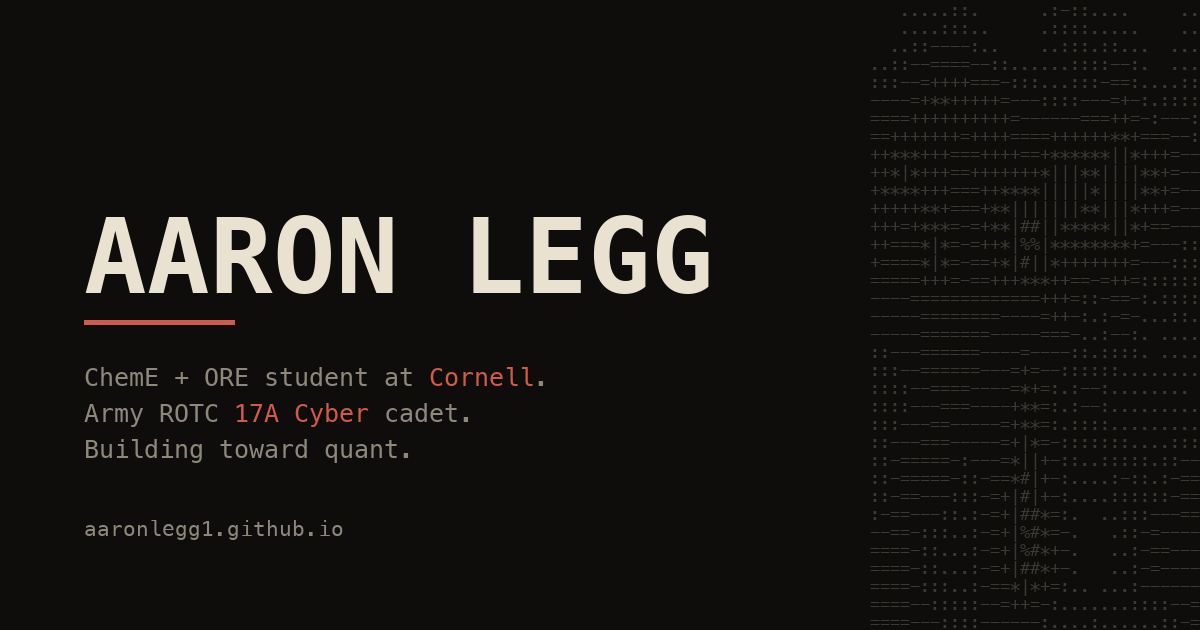
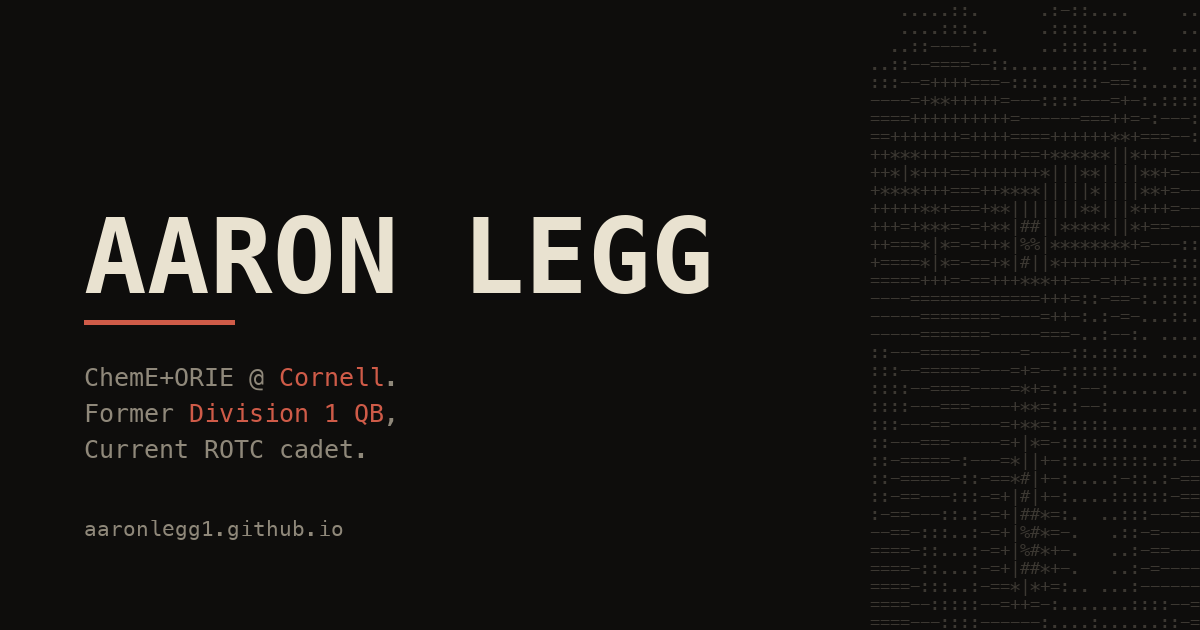
Update tagline to ChemE+ORIE, former D1 QB, current ROTC cadet
Also update meta description, og:description, and regenerate the OG
card so shared link previews match the page.

Changed region(s): [[0.0617, 0.573, 0.37, 0.7238], [0.37, 0.573, 0.4317, 0.6333]]

diff --git a/index.html b/index.html
@@ -4,7 +4,7 @@
   <meta charset="UTF-8" />
   <meta name="viewport" content="width=device-width, initial-scale=1.0" />
   <title>Aaron Legg</title>
-  <meta name="description" content="Aaron Legg — ChemE + ORE at Cornell. Quant, cyber, and systems." />
+  <meta name="description" content="Aaron Legg — ChemE+ORIE @ Cornell. Former Division 1 QB, Current ROTC cadet." />
 
   <!-- Fonts: Space Mono for the display name, JetBrains Mono for body -->
   <link rel="preconnect" href="https://fonts.googleapis.com" />
@@ -18,7 +18,7 @@
   <meta property="og:type" content="website" />
   <meta property="og:url" content="https://aaronlegg1.github.io/" />
   <meta property="og:title" content="Aaron Legg" />
-  <meta property="og:description" content="ChemE + ORE at Cornell. Army ROTC 17A Cyber cadet. Building toward quant." />
+  <meta property="og:description" content="ChemE+ORIE @ Cornell. Former Division 1 QB, Current ROTC cadet." />
   <meta property="og:image" content="https://aaronlegg1.github.io/assets/og.png" />
   <meta name="twitter:card" content="summary_large_image" />
   <meta name="theme-color" content="#0e0d0c" />
@@ -36,8 +36,8 @@
     <header class="hero">
       <canvas id="name-canvas" role="img" aria-label="Aaron Legg"></canvas>
       <p class="tagline">
-        ChemE + ORE student at <span class="accent">Cornell</span>.
-        Army ROTC <span class="accent">17A Cyber</span> cadet. Building toward quant.
+        ChemE+ORIE @ <span class="accent">Cornell</span>.
+        Former <span class="accent">Division 1 QB</span>, Current ROTC cadet.
       </p>
       <nav class="links">
         <a href="https://www.linkedin.com/in/aaronleelegg" target="_blank" rel="noopener">linkedin</a>
